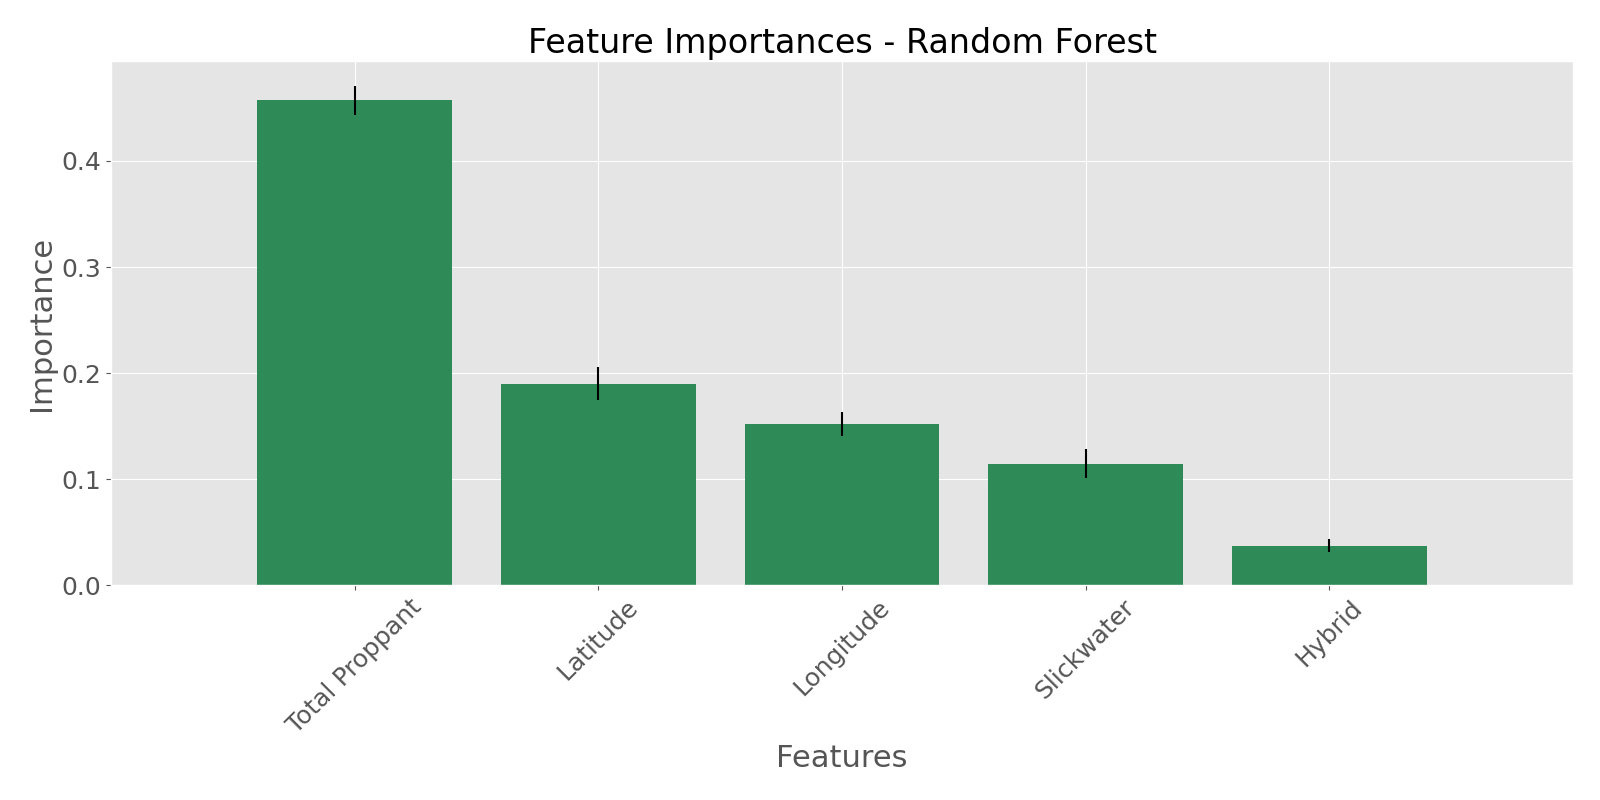
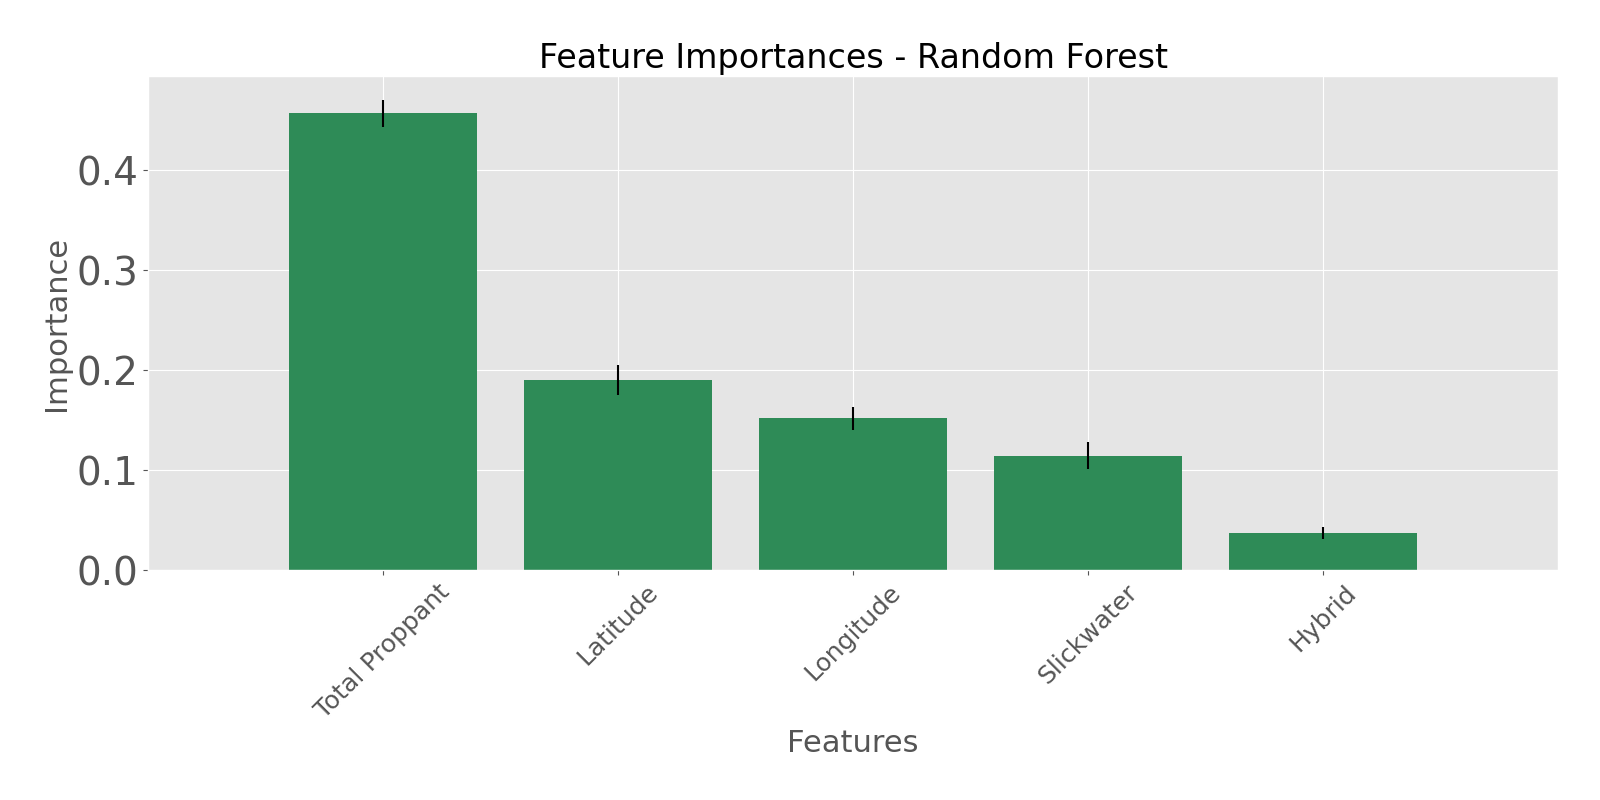
small changes

diff --git a/src/random_forest_analysis.py b/src/random_forest_analysis.py
@@ -11,7 +11,7 @@ from sklearn.metrics import mean_squared_error
 from sklearn.ensemble import GradientBoostingRegressor
 from sklearn.inspection import plot_partial_dependence    
 
-plt.rcParams.update({'font.size': 18})
+plt.rcParams.update({'font.size': 28})
 
 if __name__ == '__main__':
 
@@ -55,7 +55,7 @@ if __name__ == '__main__':
     fig.tight_layout()
     plt.savefig('../images/feature_importance_rf.png')
 
-    fig, ax = plt.subplots(figsize=(28, 10))
+    fig, ax = plt.subplots(figsize=(30, 15))
     plot_partial_dependence(randomForest, final_set, 
                             features[:number_features], 
                             line_kw={"c": "seagreen"},

diff --git a/src/grad_boost_analysis.py b/src/grad_boost_analysis.py
@@ -53,7 +53,7 @@ if __name__ == '__main__':
     fig.tight_layout()
     plt.savefig('../images/feature_importance_gb.png')
 
-    fig, ax = plt.subplots(figsize=(28, 15))
+    fig, ax = plt.subplots(figsize=(30, 15))
     plot_partial_dependence(gradBoost, final_set, 
                             features[:number_features], 
                             line_kw={"c": "cornflowerblue"},
